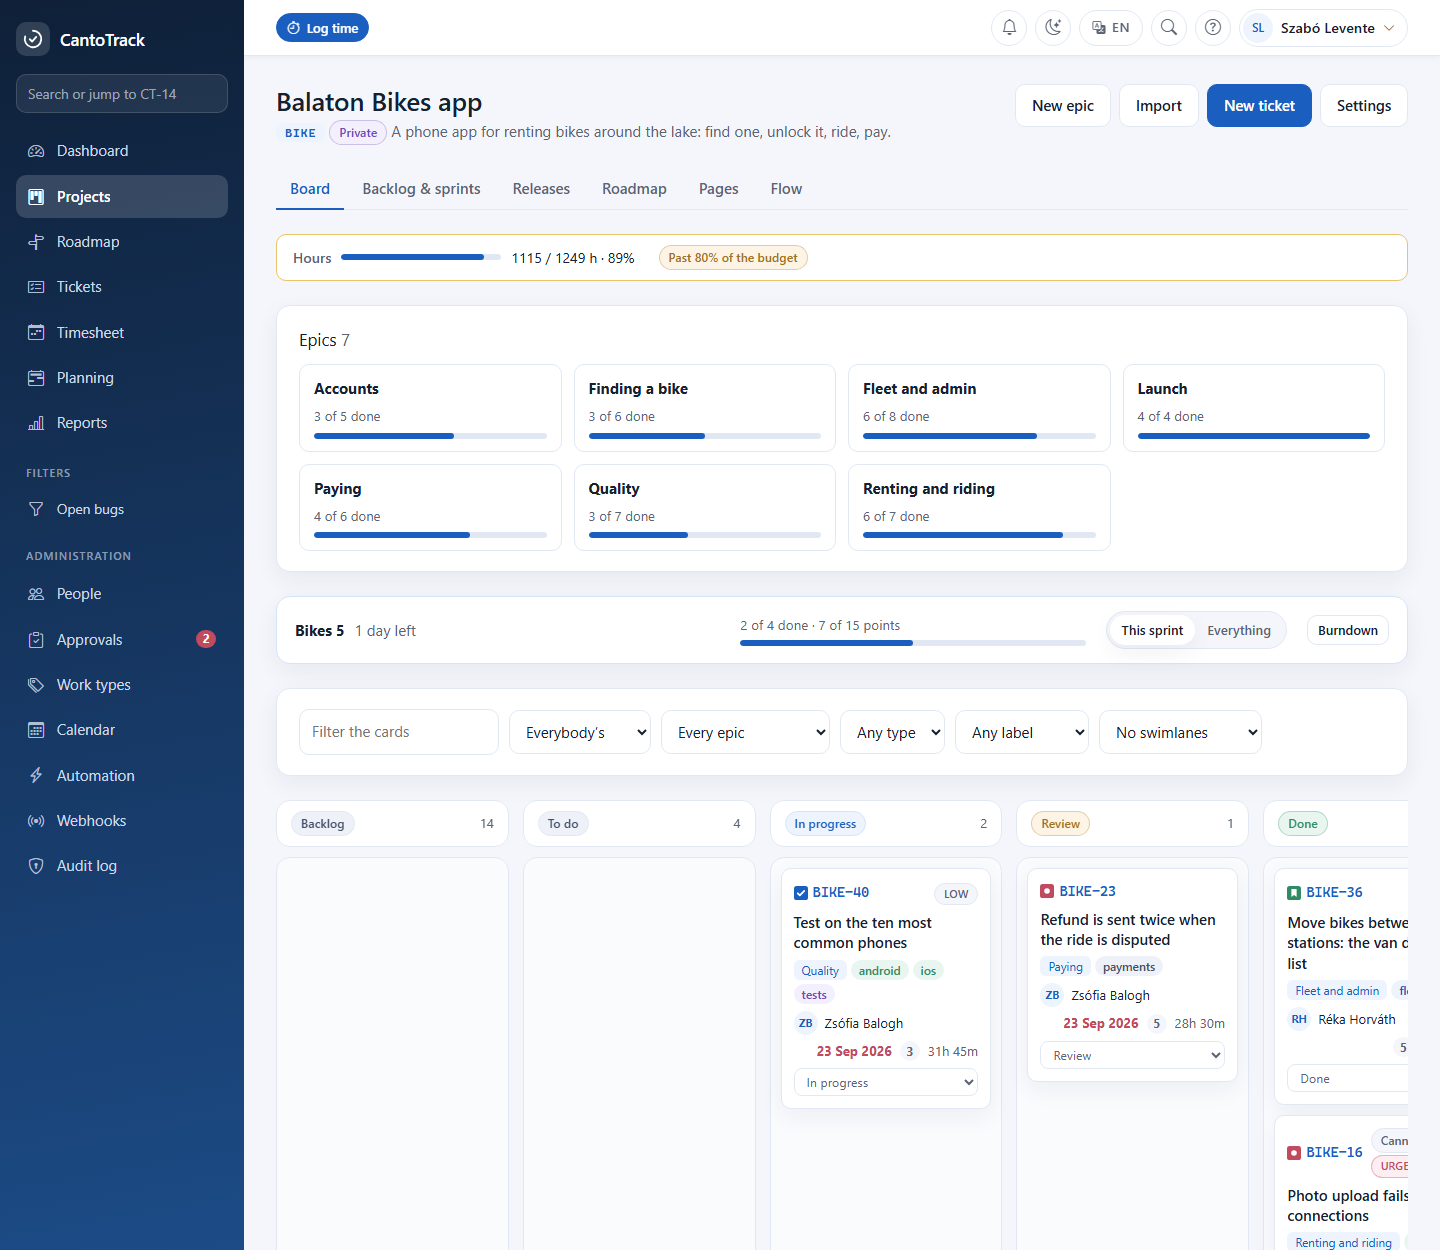
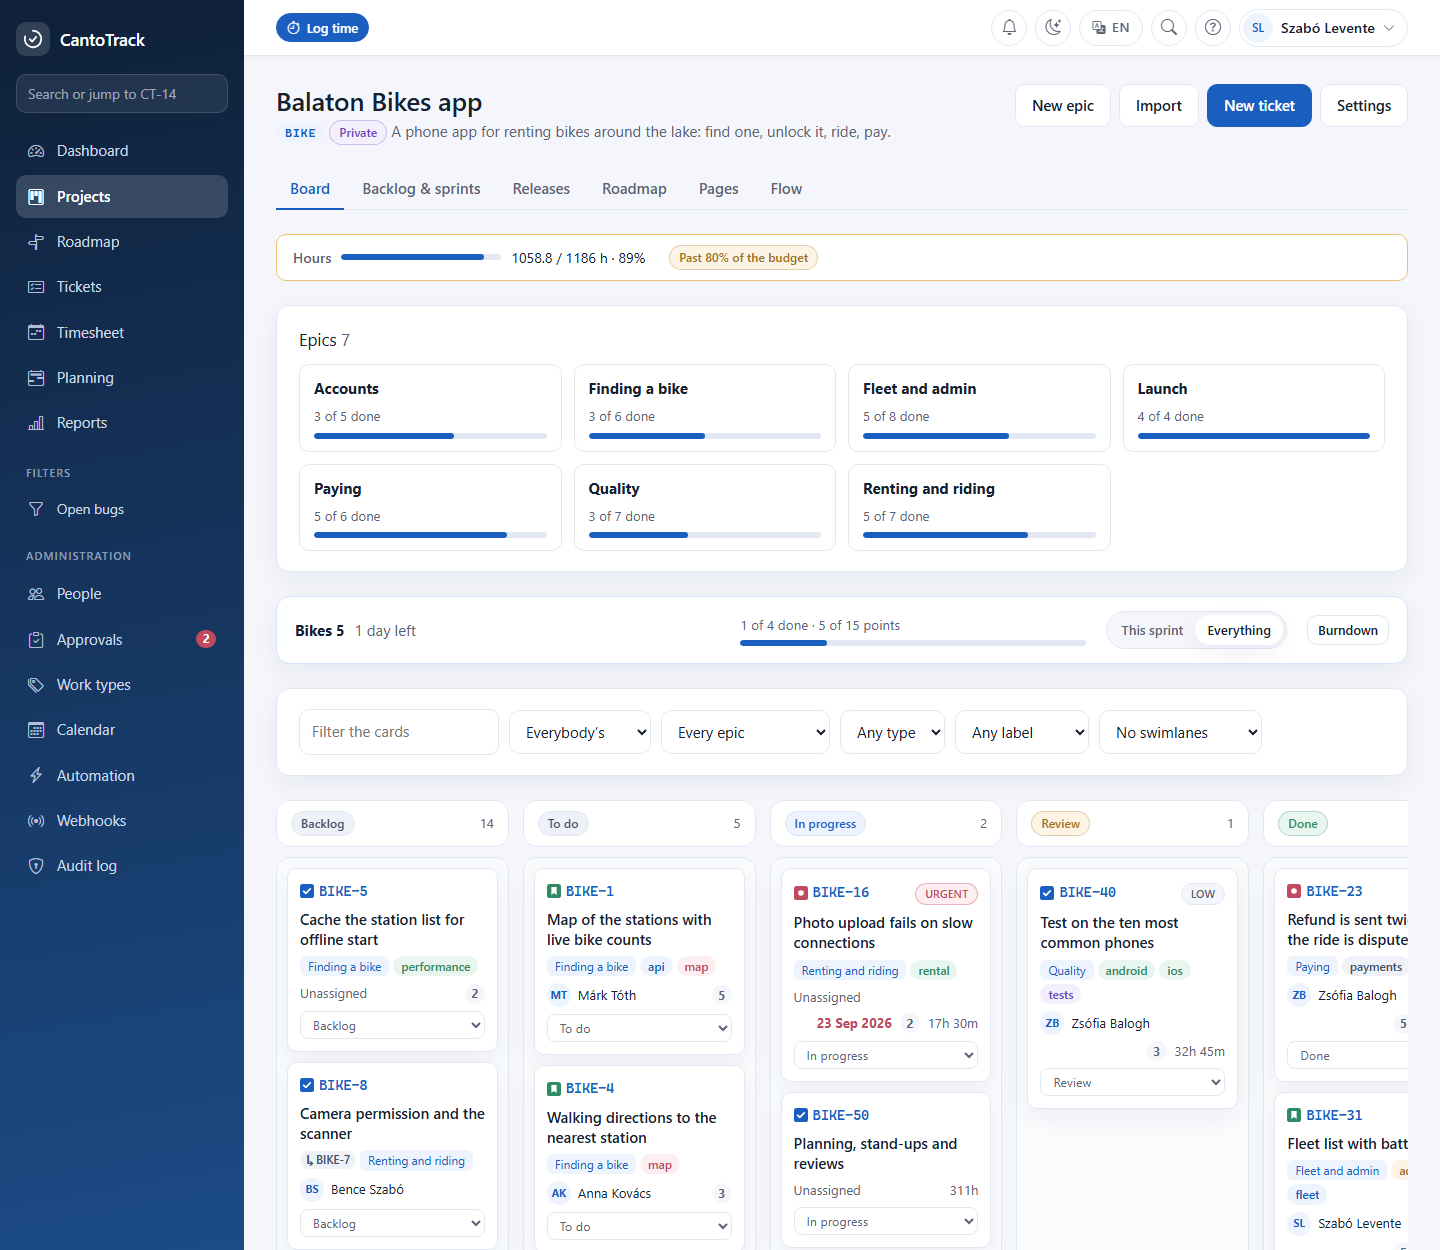
Count on a board's columns what the board is showing
With the running sprint shown, or the cards narrowed, a column's count was
still the whole project's — "Backlog 14" over an empty column. It is now
the number of cards the column holds as shown, with the project's own count
on hover when the two differ. The demo's running sprints have work waiting
as well as under way, and the README's board is the whole project's.

diff --git a/src/Model/TicketRepository.php b/src/Model/TicketRepository.php
@@ -342,11 +342,13 @@ class TicketRepository
      * The open columns are in the order people arranged them (the rank); a
      * done column shows the most recently finished first.
      *
-     * The filters narrow what is drawn — "only mine", one epic, one label —
-     * without changing the columns or their counts, which are the project's.
+     * The filters narrow what is drawn — "only mine", one epic, one label, the
+     * running sprint — without changing the columns. Each column says how many
+     * of its tickets the board is showing; the project's own count is on the
+     * statuses, for the page to say beside it.
      *
      * @param array<array> $statuses the project's columns, in order
-     * @return array{columns: array<int, array>, more: array<int, int>}
+     * @return array{columns: array<int, array>, more: array<int, int>, counts: array<int, int>}
      */
     public function board(int $projectId, array $statuses, array $filters = [], int $doneShown = 20): array
     {
@@ -368,22 +370,34 @@ class TicketRepository
         }
 
         $more = [];
+        $counts = [];
         $done = $this->db->prepare(
             self::SELECT . ' WHERE ' . $narrowed . ' AND t.status_id = :done_status
              ORDER BY t.closed_at DESC, t.id DESC LIMIT ' . max(1, $doneShown)
         );
+        $doneCount = $this->db->prepare(
+            'SELECT COUNT(*) FROM tickets t JOIN projects p ON p.id = t.project_id JOIN statuses s ON s.id = t.status_id
+             LEFT JOIN sprints sp ON sp.id = t.sprint_id LEFT JOIN releases rl ON rl.id = t.release_id
+             LEFT JOIN epics e ON e.id = t.epic_id LEFT JOIN users a ON a.id = t.assignee_id
+             WHERE ' . $narrowed . ' AND t.status_id = :done_status'
+        );
 
         foreach ($statuses as $status) {
+            $id = (int) $status['id'];
+
             if ($status['category'] !== 'done') {
+                $counts[$id] = count($columns[$id]);
                 continue;
             }
 
-            $done->execute($parameters + ['done_status' => (int) $status['id']]);
-            $columns[(int) $status['id']] = $done->fetchAll();
-            $more[(int) $status['id']] = max(0, (int) $status['ticket_count'] - count($columns[(int) $status['id']]));
+            $done->execute($parameters + ['done_status' => $id]);
+            $columns[$id] = $done->fetchAll();
+            $doneCount->execute($parameters + ['done_status' => $id]);
+            $counts[$id] = (int) $doneCount->fetchColumn();
+            $more[$id] = max(0, $counts[$id] - count($columns[$id]));
         }
 
-        return ['columns' => $columns, 'more' => $more];
+        return ['columns' => $columns, 'more' => $more, 'counts' => $counts];
     }
 
     /**

diff --git a/database/seed_demo_more.php b/database/seed_demo_more.php
@@ -502,7 +502,8 @@ foreach ($catalogue as $code => $project) {
             if ($k === 4) {
                 // The running sprint: some finished already, the rest on the way.
                 foreach ($top as $i => $t) {
-                    $state = ['done', 'done', 'review', 'in_progress', 'in_progress', 'todo'][$i % 6];
+                    // Something of every kind, however few: waiting, under way, in review, done.
+                    $state = ['todo', 'in_progress', 'done', 'review', 'todo', 'done', 'in_progress', 'todo'][$i % 8];
                     if ($state !== 'todo' && $state !== 'in_progress') {
                         $ticketService->changeStatus($t, 'in_progress', $me);
                     }

diff --git a/lang/hu.php b/lang/hu.php
@@ -1637,4 +1637,5 @@ return [
     'Bugs opened this week' => 'A héten nyitott hibák',
     'There is no such piece.' => 'Nincs ilyen modul.',
     'Your dashboard is back as it starts. Your own pieces are still on it.' => 'A dashboardod visszaállt alapállapotba. A saját moduljaid megmaradtak rajta.',
+    '{count} in the whole project' => 'Az egész projektben: {count}',
 ];

diff --git a/src/Controller/ProjectController.php b/src/Controller/ProjectController.php
@@ -79,6 +79,7 @@ class ProjectController extends Controller
             'project' => $project,
             'board' => $board['columns'],
             'more' => $board['more'],
+            'counts' => $board['counts'],
             'statuses' => $statuses,
             'epics' => $epics,
             'lanes' => $this->lanes($board['columns'], $lanesBy, $epics),
